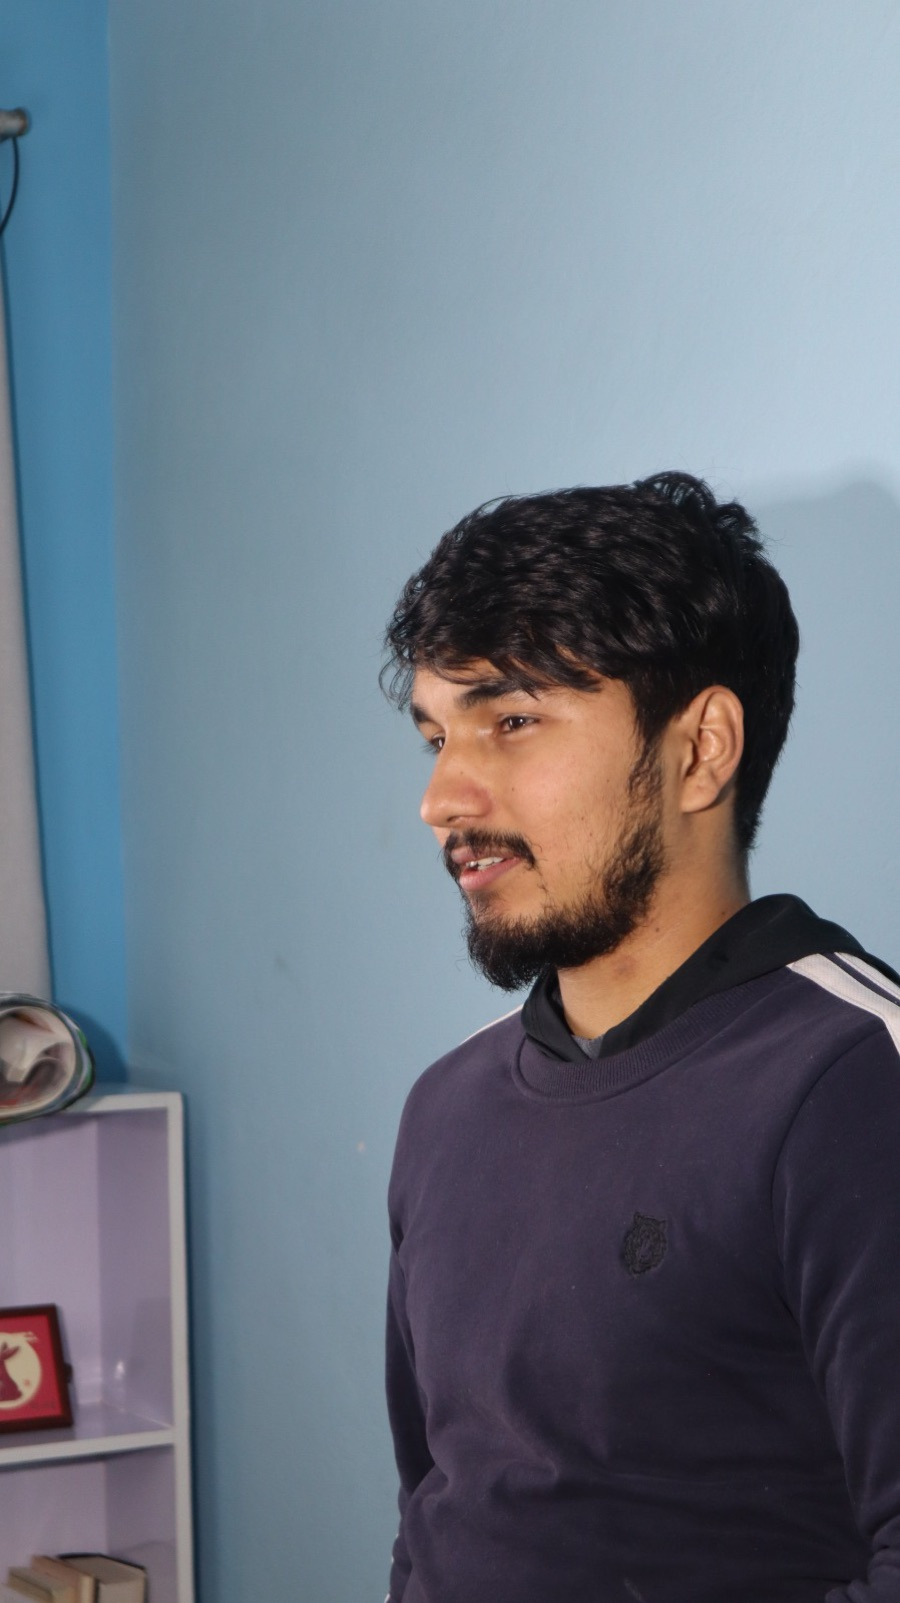
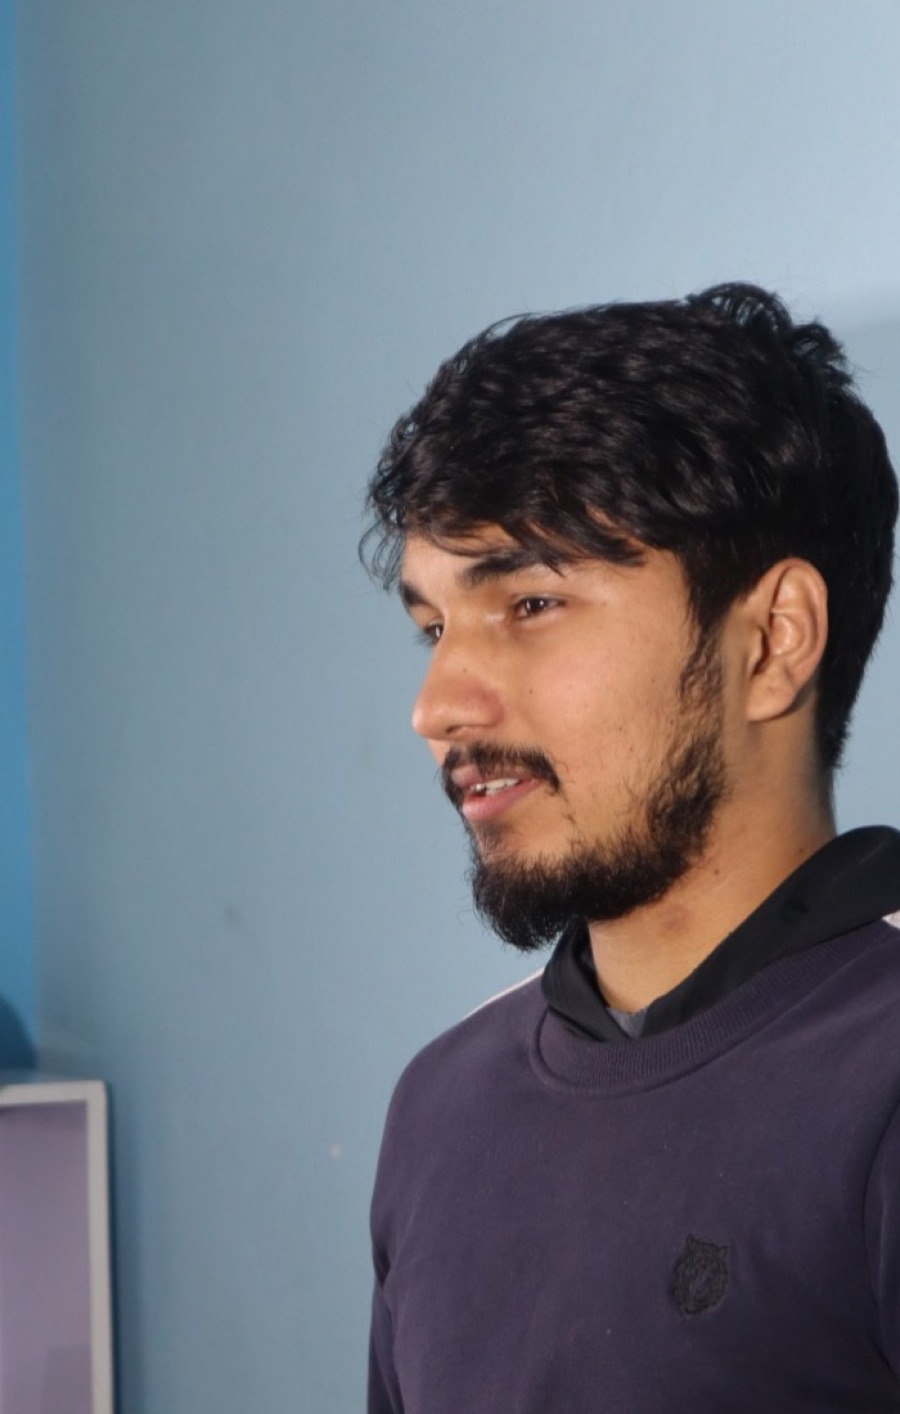
feat(founder): editorial duotone treatment + tighter crop of Roshan portrait
Image (public/images/roshan.jpg)
- Re-cropped from 900x1603 → 700x1100 (centered) → resampled to 900x1414.
  Tight headshot, cool blue wall reduced, sweater + shoulders visible.
- 139 KB JPEG q82. Replaces the previous full-frame portrait.

FounderCard rendering
- Image now layered into a sage monochrome treatment so it sits in
  the brand palette instead of fighting it:
  * CSS filter:  grayscale(1) contrast(1.08) brightness(0.95)
  * mix-blend-color duotone wash (from forest-700 to forest-900) at
    opacity 90% — turns the desaturated photo into editorial sage
  * radial accent (sand 18%) in the upper right for warm lift
  * bg-grain overlay at 25% opacity mix-blend-overlay for film grain
  * inset 120px forest shadow for a soft inner vignette
  * stronger bottom gradient (h-1/2, forest-900/85 → transparent) for
    name legibility
- Glass badge top-left ('Kathmandu · Founder') made lighter
  (sand-100/30 border, forest-900/45 bg).
- Caption updated: 'Mechanical Engineer · Founder, 2023'.
- 1400 ms scale-[1.04] on group-hover.
- Card wrapper isolate so the duotone wash stays trapped inside
  the rounded-3xl mask.

diff --git a/src/components/sections/FounderCard.tsx b/src/components/sections/FounderCard.tsx
@@ -11,26 +11,48 @@ export function FounderCard() {
       <Container>
         <div className="grid items-center gap-12 md:grid-cols-12 lg:gap-16">
           <Reveal className="md:col-span-5">
-            <div className="group relative aspect-[4/5] overflow-hidden rounded-3xl bg-forest-100">
+            <div className="group relative aspect-[4/5] overflow-hidden rounded-3xl bg-forest-900 isolate">
+              {/* Photograph, rendered as a tonal layer underneath the duotone wash */}
               <ImageWithFallback
                 src={ROSHAN}
                 alt="Roshan Ojha, founder of Navya Engineering Solution"
-                className="h-full w-full object-cover [object-position:62%_28%] transition-transform [transition-duration:1200ms] ease-out group-hover:scale-[1.04]"
+                className="h-full w-full object-cover [object-position:62%_30%] [filter:grayscale(1)_contrast(1.08)_brightness(0.95)] transition-transform [transition-duration:1400ms] ease-out group-hover:scale-[1.04]"
               />
-              {/* warm tint to lift the cool wall blue toward brand palette */}
-              <div className="pointer-events-none absolute inset-0 bg-gradient-to-br from-forest-900/15 via-transparent to-accent/15 mix-blend-multiply" />
-              {/* bottom legibility gradient */}
-              <div className="pointer-events-none absolute inset-x-0 bottom-0 h-2/5 bg-gradient-to-t from-forest-900/70 via-forest-900/30 to-transparent" />
-              {/* corner badge */}
-              <div className="absolute left-5 top-5 inline-flex items-center gap-2 rounded-full border border-sand-100/40 bg-forest-900/55 px-3 py-1.5 text-[10px] uppercase tracking-eyebrow text-sand-50 backdrop-blur">
+              {/* Duotone wash: forest-700 highlights, sand-100 shadows → editorial sage monochrome */}
+              <div
+                aria-hidden
+                className="pointer-events-none absolute inset-0 bg-gradient-to-br from-forest-700 to-forest-900 mix-blend-color opacity-90"
+              />
+              {/* Subtle warm lift in the upper right */}
+              <div
+                aria-hidden
+                className="pointer-events-none absolute inset-0 bg-[radial-gradient(ellipse_at_top_right,rgba(216,201,163,0.18),transparent_60%)]"
+              />
+              {/* Film grain */}
+              <div
+                aria-hidden
+                className="pointer-events-none absolute inset-0 bg-grain opacity-25 mix-blend-overlay"
+              />
+              {/* Inner vignette for editorial portrait feel */}
+              <div
+                aria-hidden
+                className="pointer-events-none absolute inset-0 shadow-[inset_0_0_120px_rgba(27,42,32,0.55)] rounded-3xl"
+              />
+              {/* Bottom legibility gradient */}
+              <div
+                aria-hidden
+                className="pointer-events-none absolute inset-x-0 bottom-0 h-1/2 bg-gradient-to-t from-forest-900/85 via-forest-900/35 to-transparent"
+              />
+              {/* Glass pill — top-left */}
+              <div className="absolute left-5 top-5 inline-flex items-center gap-2 rounded-full border border-sand-100/30 bg-forest-900/45 px-3 py-1.5 text-[10px] uppercase tracking-eyebrow text-sand-50 backdrop-blur">
                 Kathmandu · Founder
               </div>
-              {/* name block */}
+              {/* Name + role block — bottom-left */}
               <div className="absolute bottom-6 left-6 right-6 text-sand-50">
                 <p className="font-mono text-[10px] uppercase tracking-eyebrow text-sand-200/85">
-                  Mechanical Engineer · Founder
+                  Mechanical Engineer · Founder, 2023
                 </p>
-                <p className="mt-1 font-display text-2xl md:text-3xl font-medium leading-tight">
+                <p className="mt-1.5 font-display text-2xl md:text-3xl font-medium leading-tight">
                   Roshan Ojha
                 </p>
               </div>
